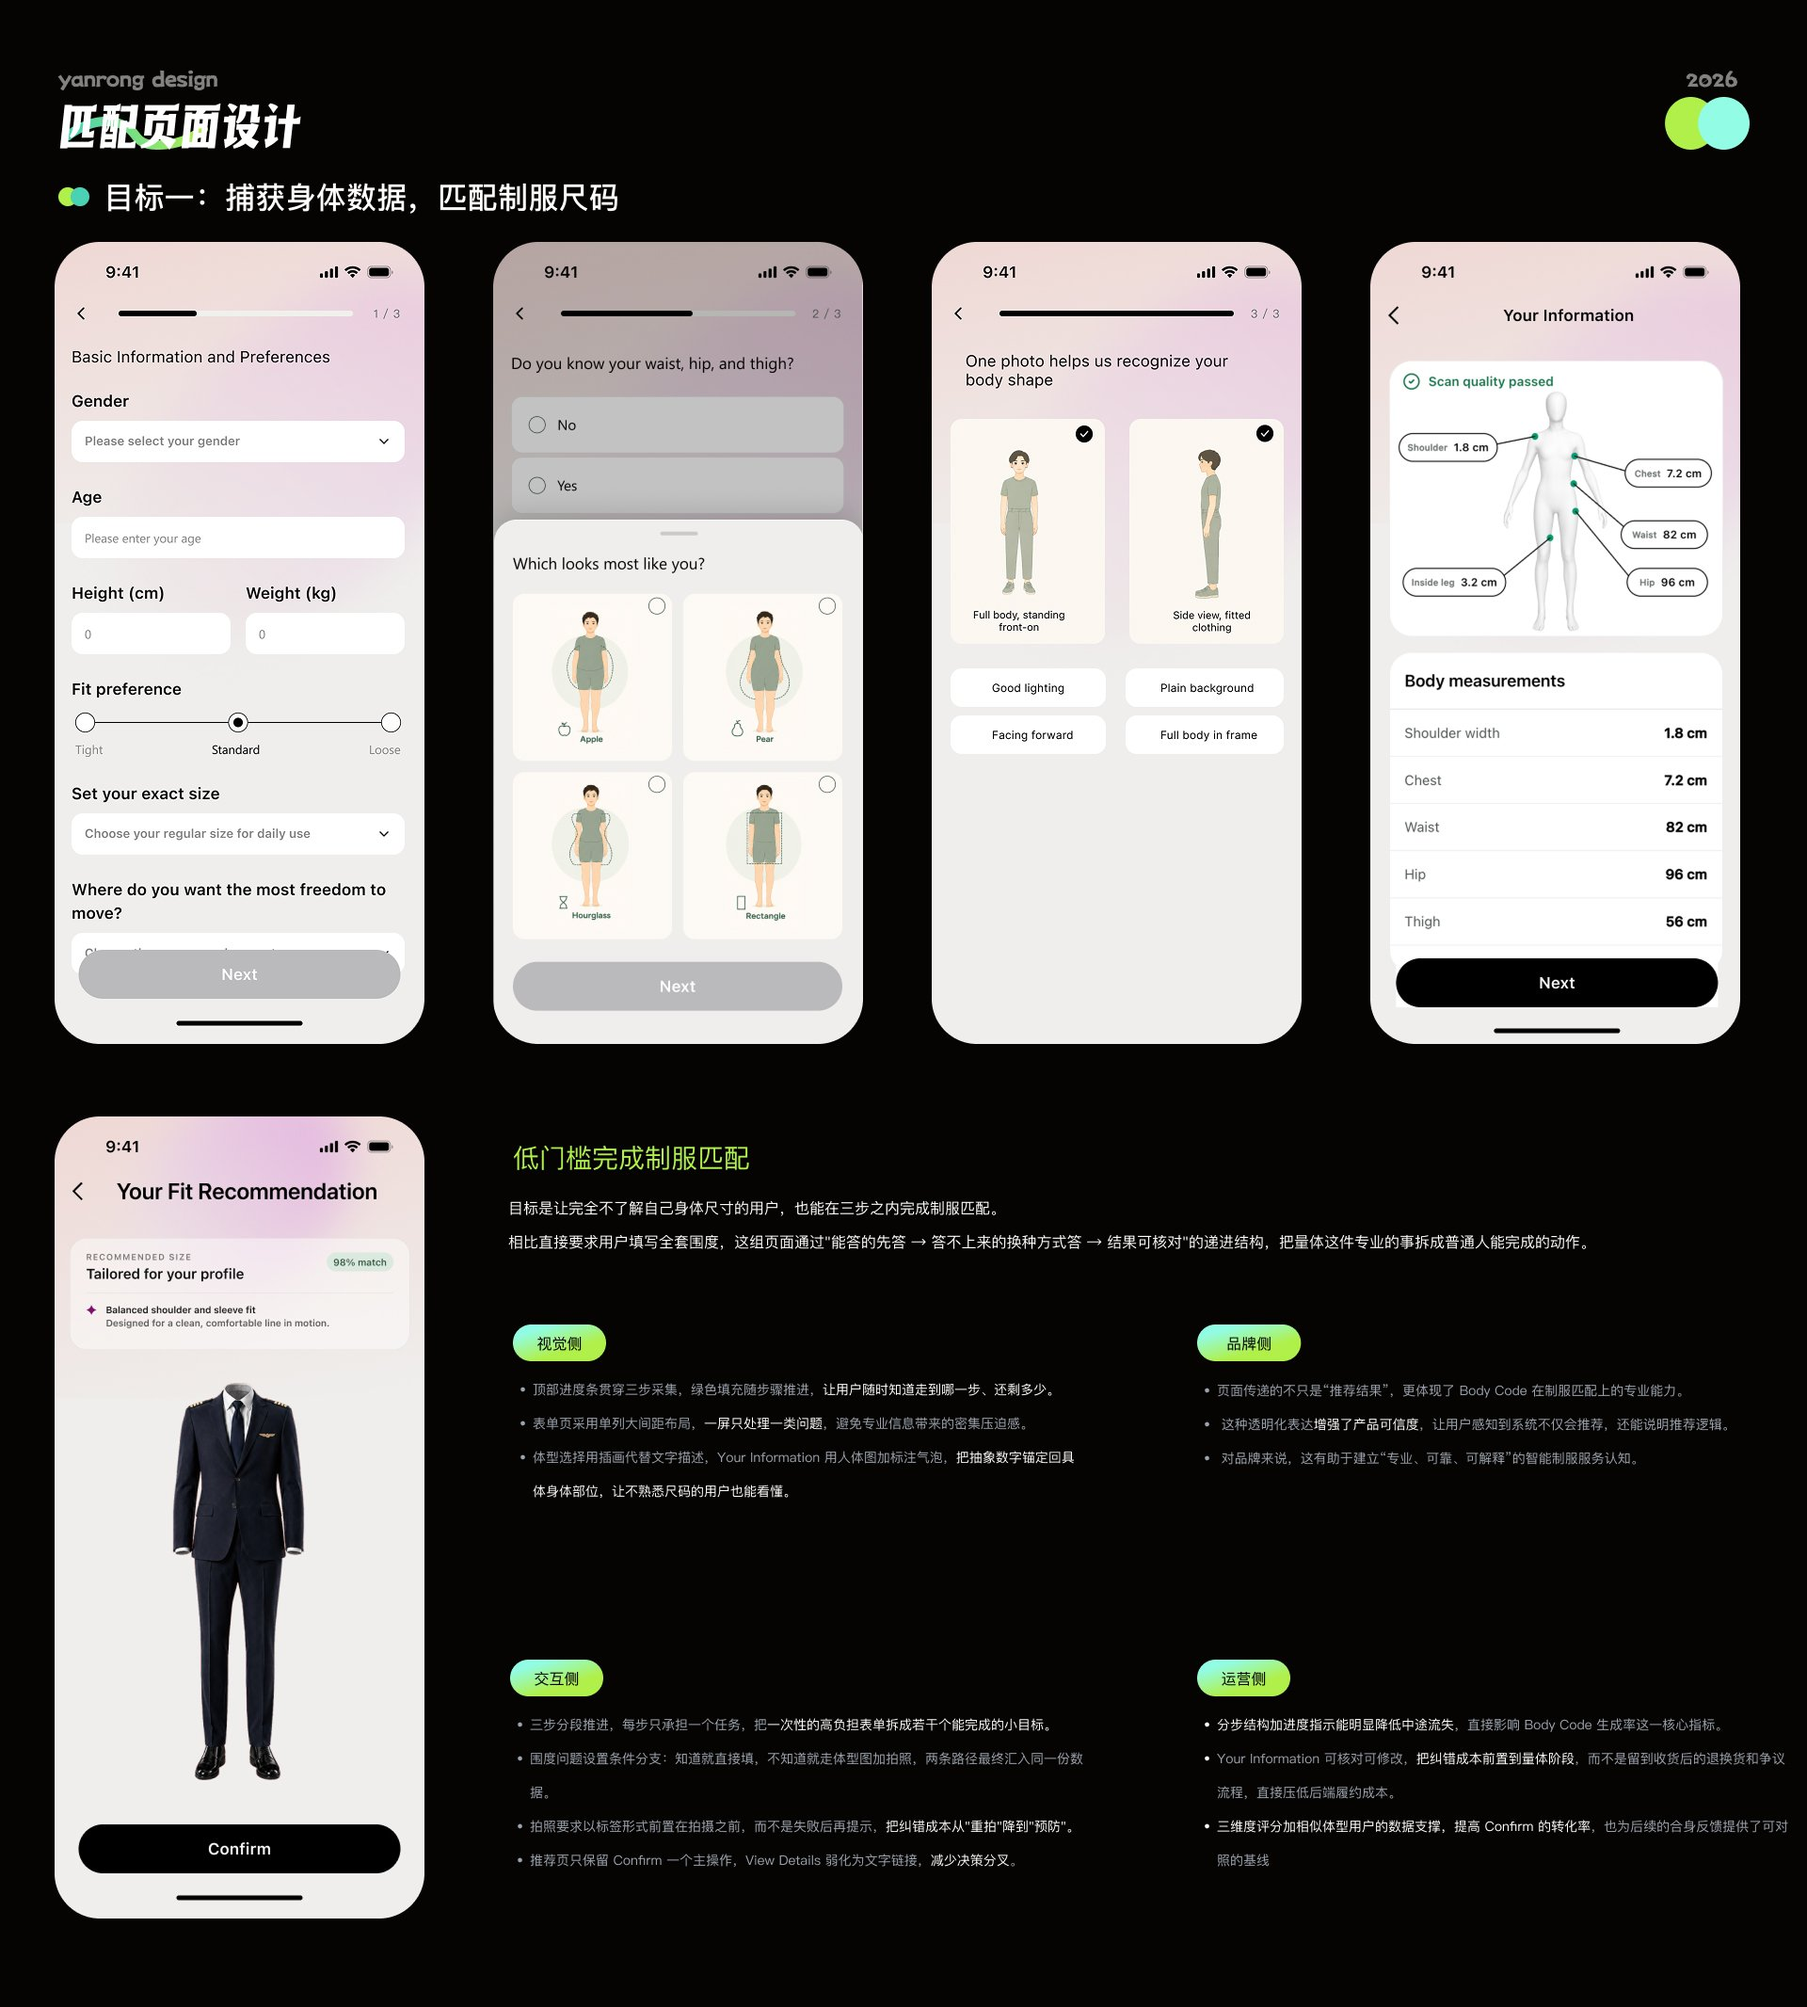
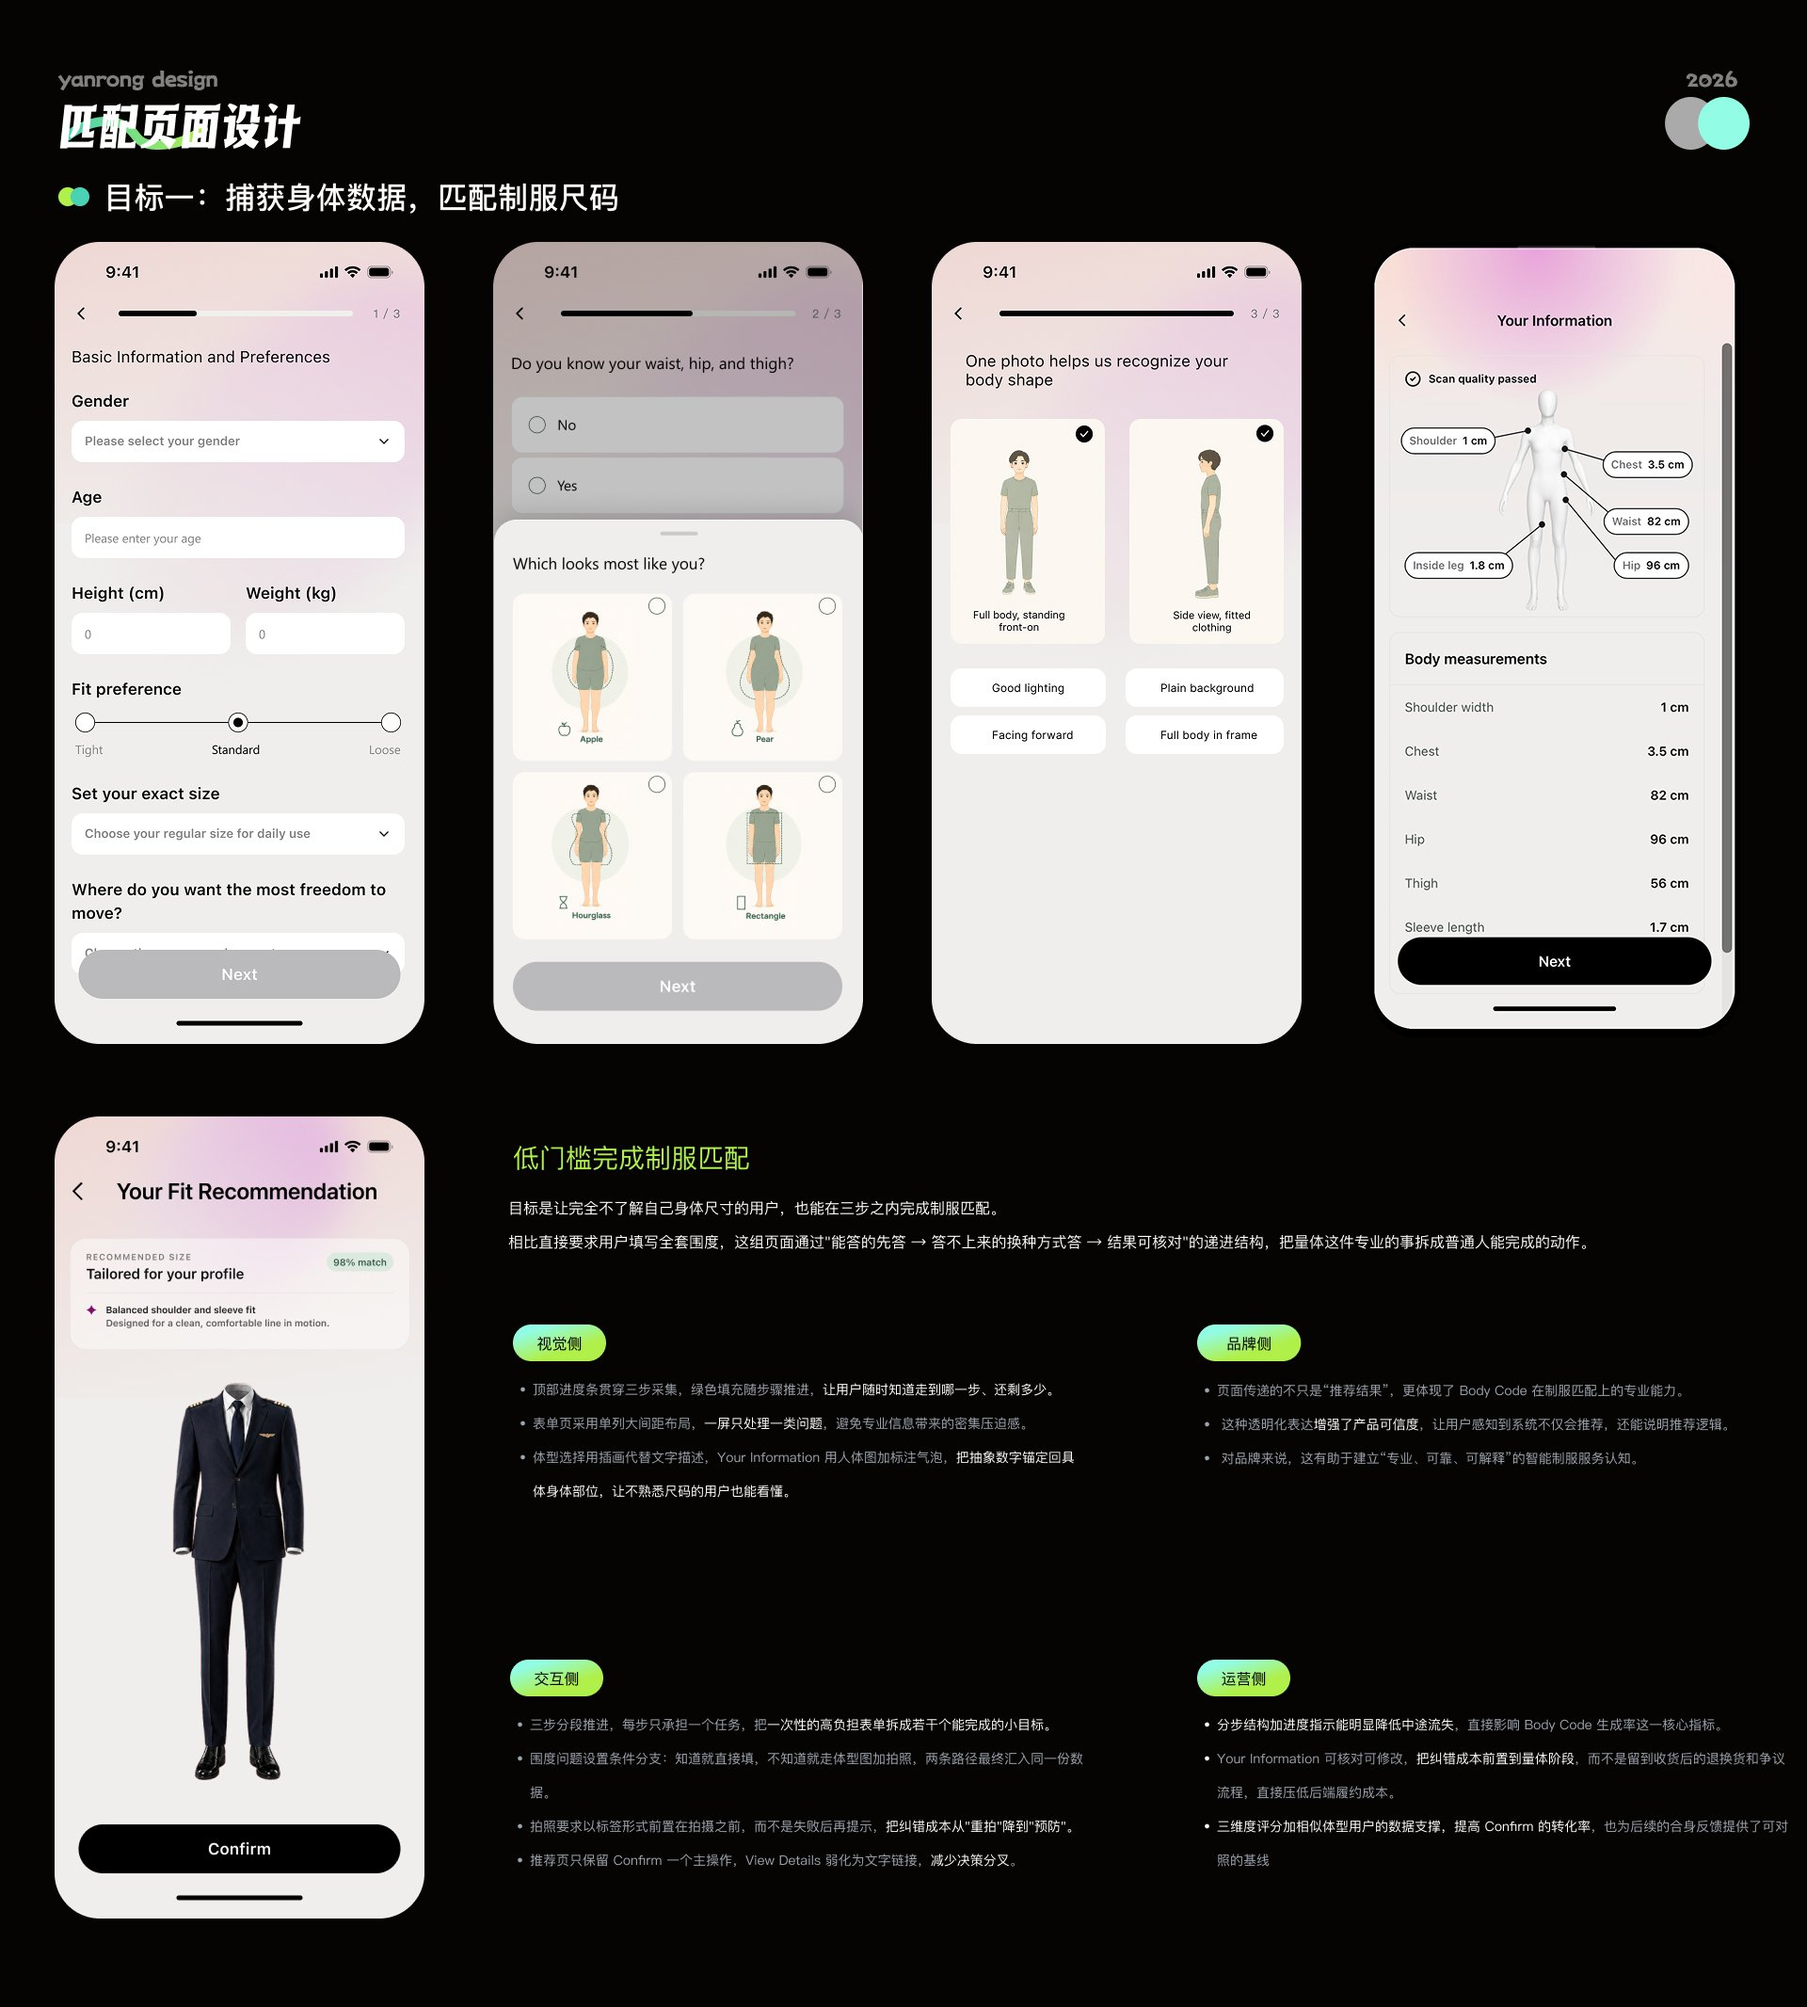
Update Body Code case study page 13 (match flow) from the latest 015 export

Changed region(s): [[0.75, 0.031, 0.9688, 0.5263]]

diff --git a/project-bodycode.html b/project-bodycode.html
@@ -63,7 +63,7 @@
       <img src="src/projects/bodycode/10.jpg?v=3" alt="设计风格" width="1920" height="2108" loading="lazy" decoding="async" />
       <img src="src/projects/bodycode/11.jpg?v=3" alt="Onboarding 页面设计" width="1920" height="1777" loading="lazy" decoding="async" />
       <img src="src/projects/bodycode/12.jpg?v=3" alt="首页设计" width="1920" height="1080" loading="lazy" decoding="async" />
-      <img src="src/projects/bodycode/13.jpg?v=3" alt="匹配页面设计" width="1920" height="2132" loading="lazy" decoding="async" />
+      <img src="src/projects/bodycode/13.jpg?v=4" alt="匹配页面设计" width="1920" height="2132" loading="lazy" decoding="async" />
       <img src="src/projects/bodycode/14.jpg?v=3" alt="争议页面设计" width="1920" height="2306" loading="lazy" decoding="async" />
       <img src="src/projects/bodycode/15.jpg?v=3" alt="My Bodycode 页面设计" width="1920" height="2200" loading="lazy" decoding="async" />
       <img src="src/projects/bodycode/16.jpg?v=3" alt="Account 页面设计" width="1920" height="1962" loading="lazy" decoding="async" />
